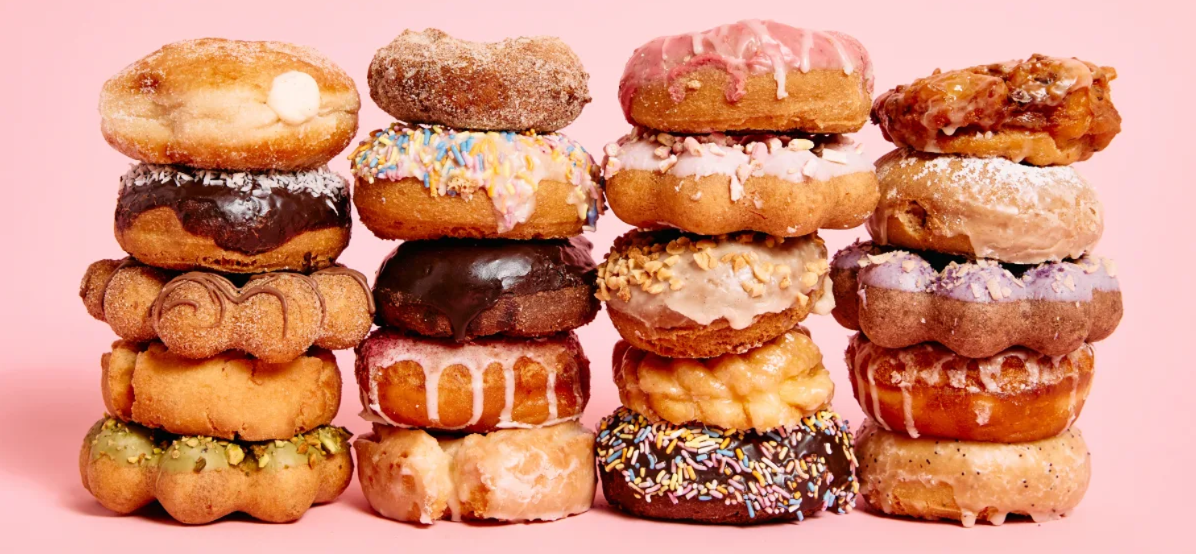
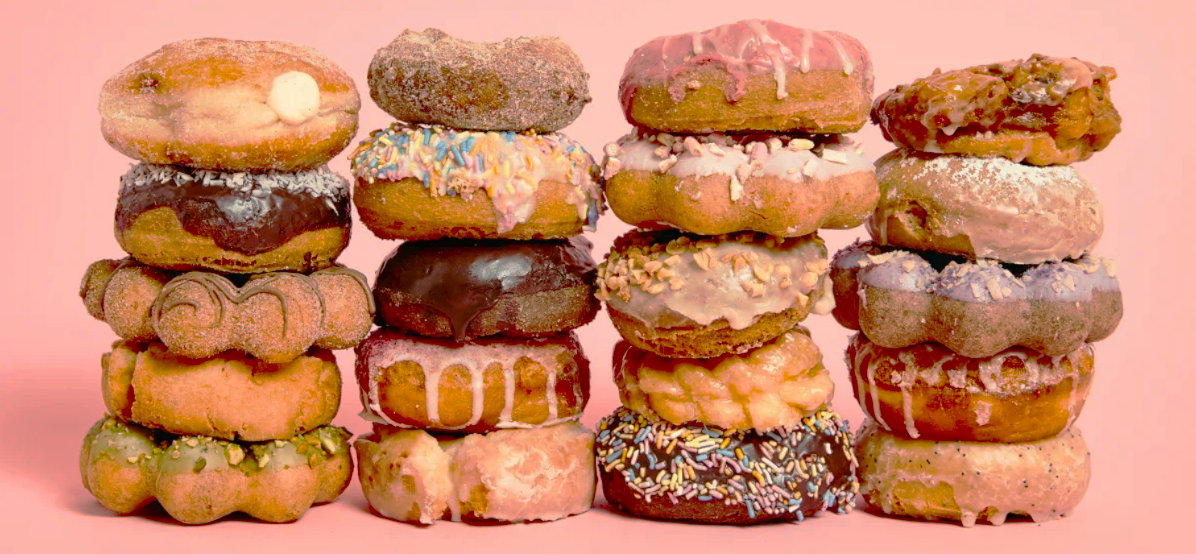
updated donut button

diff --git a/style.css b/style.css
@@ -1,5 +1,5 @@
 body {
-  background-image: url("/img/donuts.png");
+  background-image: url("/img/stackofdonuts.png");
   background-size: cover;
   height: 95vh;
   width: 99vw;
@@ -7,118 +7,124 @@ body {
   -moz-background-size: cover;
   -o-background-size: cover;
   background-size: cover;
+}
 
-  .donut {
-    box-sizing: border-box;
-    display: flex;
-    flex-direction: column;
-    align-items: center;
-    margin-top: 30px;
-    font-size: 2.1rem;
-  }
-  button {
-    background-color: royalblue;
-    border: none;
-    color: white;
-    padding: 15px 32px;
-    text-align: center;
-    text-decoration: none;
-    display: inline-block;
-    font-size: 16px;
-  }
-  .reset {
-    margin-top: 70px;
-    flex-direction: column;
-    display: flex;
-    align-items: center;
-  }
+section {
+  box-sizing: border-box;
+  display: flex;
+  flex-direction: column;
+  align-items: center;
+  margin-top: 30px;
+  font-size: 2.1rem;
+}
 
-  /* Navigation styles */
-  .header-nav {
-    background-color: gray; /* gray background */
-    padding: 10px 20px; /* Added horizontal padding */
-    text-align: center; /* Center-align navigation items */
-  }
 
-  ul {
-    list-style-type: none;
-    margin: 0;
+button > img {
+  width: 80px;
+  border-radius: 100px;
+  background: none;
+}
+
+button {
+  background-color: rgba(38, 78, 197, 0.808);
+  border:#000;
+  color: white;
+  padding: 5px 2px;
+  text-align: center;
+  text-decoration: none;
+  display: inline-block;
+  font-size: 20px;
+  cursor: pointer;
+}
+
+
+.reset {
+  margin-top: 70px;
+  flex-direction: column;
+  display: flex;
+  align-items: center;
+}
+
+.reset > button {
+  background-color: hwb(303 0% 0% / 0.685);
+  cursor: pointer;
+}
+
+/* Navigation styles */
+.header-nav {
+  background-color: gray; /* gray background */
+  padding: 10px 20px; /* Added horizontal padding */
+  text-align: center; /* Center-align navigation items */
+}
+
+ul {
+  list-style-type: none;
+  margin: 0;
+  padding: 0;
+}
+
+li {
+  display: inline-block; /* Display items side by side */
+  margin-right: 20px;
+}
+
+.header-link {
+  color: #000; /* Black text */
+  cursor: pointer;
+  text-decoration: none;
+  font-size: 20px;
+  font-weight: bold;
+  padding: 10px 20px; /* Added padding */
+  border-radius: 5px; /* Rounded corners */
+  transition: background-color 0.3s ease; /* Smooth background color transition */
+}
+
+.header-link:hover {
+  background-color: blue; /* Darker green on hover */
+}
+
+/* Modal styles */
+.modal {
+  display: none;
+  position: fixed;
+  z-index: 1000;
+  left: 0;
+  top: 0;
+  width: 100%;
+  height: 100%;
+  background-color: rgba(0, 0, 0, 0.5); /* Semi-transparent black overlay */
+  overflow-y: auto; /* Enable vertical scrolling if content exceeds modal height */
+}
+
+.modal-content {
+  background-color: #fff;
+  border-radius: 10px;
+  padding: 20px;
+  width: 80%; /* Increased modal width */
+  max-width: 600px;
+  margin: 20px auto; /* Center modal vertically and horizontally */
+  box-shadow: 0 4px 8px rgba(0, 0, 0, 0.1); /* Add box shadow for depth */
+}
+
+.modal h2 {
+  color: #333;
+  margin-bottom: 10px;
+}
+
+.modal p {
+  color: #666;
+  margin-bottom: 15px;
+}
+
+button:hover {
+  color: #333;
+}
+
+@media screen and (max-width: 500px) {
+  .header-nav,
+  .container {
+    font-size: 0.5em;
     padding: 0;
-  }
-
-  li {
-    display: inline-block; /* Display items side by side */
-    margin-right: 20px;
-  }
-
-  .header-link {
-    color: #000; /* Black text */
-    cursor: pointer;
-    text-decoration: none;
-    font-size: 20px;
-    font-weight: bold;
-    padding: 10px 20px; /* Added padding */
-    border-radius: 5px; /* Rounded corners */
-    transition: background-color 0.3s ease; /* Smooth background color transition */
-  }
-
-  .header-link:hover {
-    background-color: blue; /* Darker green on hover */
-  }
-
-  /* Modal styles */
-  .modal {
-    display: none;
-    position: fixed;
-    z-index: 1000;
-    left: 0;
-    top: 0;
     width: 100%;
-    height: 100%;
-    background-color: rgba(0, 0, 0, 0.5); /* Semi-transparent black overlay */
-    overflow-y: auto; /* Enable vertical scrolling if content exceeds modal height */
-  }
-
-  .modal-content {
-    background-color: #fff;
-    border-radius: 10px;
-    padding: 20px;
-    width: 80%; /* Increased modal width */
-    max-width: 600px;
-    margin: 20px auto; /* Center modal vertically and horizontally */
-    box-shadow: 0 4px 8px rgba(0, 0, 0, 0.1); /* Add box shadow for depth */
-  }
-
-  .modal h2 {
-    color: #333;
-    margin-bottom: 10px;
-  }
-
-  .modal p {
-    color: #666;
-    margin-bottom: 15px;
-  }
-
-  /* Close button style */
-  .close-button {
-    position: absolute;
-    top: 10px;
-    right: 10px;
-    cursor: pointer;
-    color: blue;
-    font-size: 20px;
-  }
-
-  .close-button:hover {
-    color: #333;
-  }
-
-  @media screen and (max-width: 600px) {
-    .header-nav,
-    .container {
-      font-size: 0.5em;
-      padding: 0;
-      width: 100%;
-    }
   }
 }

diff --git a/index.html b/index.html
@@ -66,15 +66,17 @@
         </ul>
       </div>
     </div>
-    <section class="donut">
+    <section>
       <h2>Donut Count:</h2>
       <h1 id="donut-count">0</h1>
-      <button id="donut-button">Make a Donut with a click</button>
+      <button id="donut-button"><img src="/img/donut.jpg" class="donut" /></button>
     </section>
-    <section class="donut">
+    <section>
       <h2>AutoClickers:</h2>
       <h1 id="auto-count">0</h1>
-      <button id="auto-button">Buy an AutoClicker ( 100 donuts required)</button>
+      <button id="auto-button">
+        Buy an AutoClicker ( 100 donuts required)
+      </button>
     </section>
     <div class="reset">
       <button id="reset-button">Reset all counters</button>
